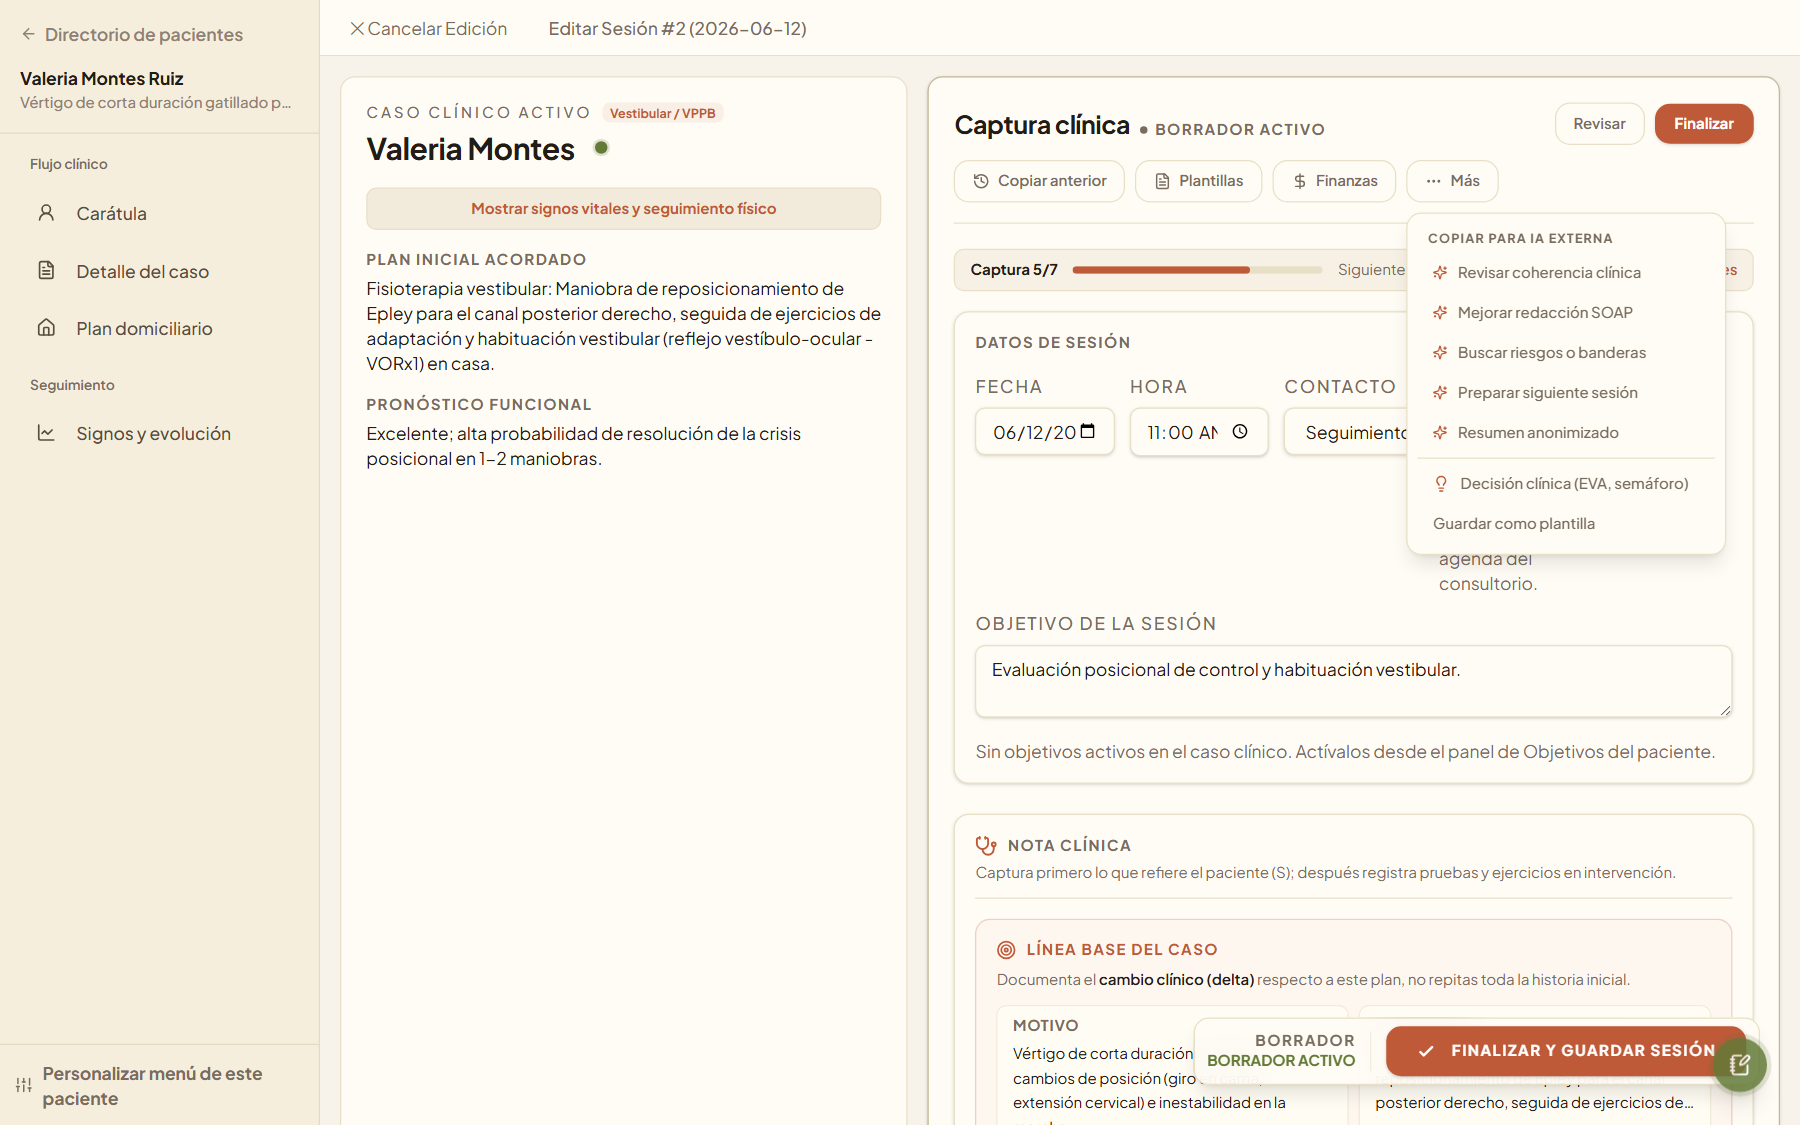
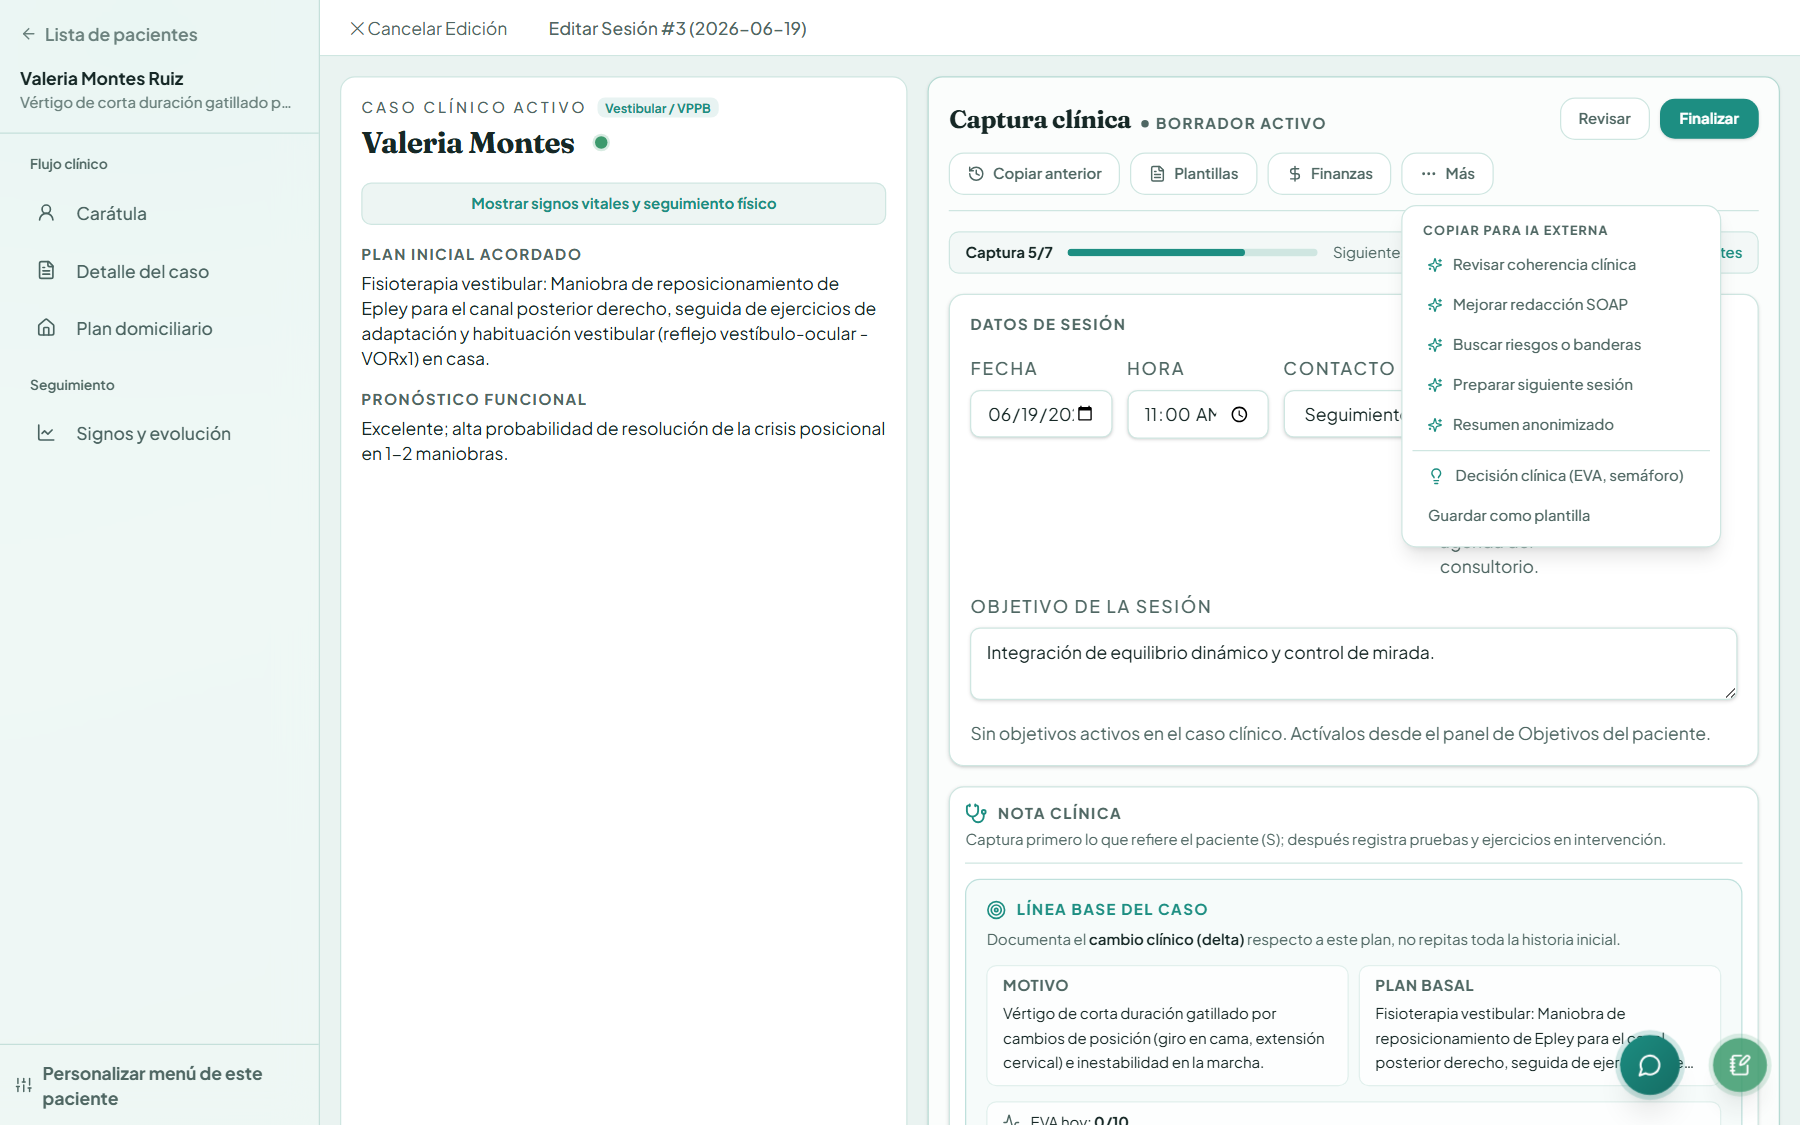
Alinear portafolio con el gestor: paleta teal, capturas y datos demo.
- CSS, favicon y OG en verde clínico (#1d8e82) como PoncePretelin
- Regenerar 11 capturas con UI actual (Valeria/Manuel, intake NOM-004)
- Unificar script de capturas; descubrir IDs por folio demo
- Actualizar roadmap, README y github_profile_readme (4 motores)

diff --git a/styles.css b/styles.css
@@ -1,16 +1,16 @@
 :root {
-  --bg: #f0ebe3;
-  --bg-dark: #3a454f;
-  --surface: #faf8f4;
-  --ink: #2c2a27;
-  --muted: #6b6560;
-  --line: rgba(44, 42, 39, 0.1);
-  --line-strong: rgba(44, 42, 39, 0.18);
-  --accent: #c45a32;
-  --accent-soft: #e8a07a;
-  --accent-tint: rgba(196, 90, 50, 0.08);
-  --slate: #4a5d6f;
-  --warm: #5c534c;
+  --bg: #eaf3f1;
+  --bg-dark: #162826;
+  --surface: #ffffff;
+  --ink: #162826;
+  --muted: #4f6763;
+  --line: rgba(22, 40, 38, 0.1);
+  --line-strong: rgba(22, 40, 38, 0.18);
+  --accent: #1d8e82;
+  --accent-soft: #3db8ab;
+  --accent-tint: rgba(29, 142, 130, 0.08);
+  --slate: #4a6360;
+  --warm: #6b817d;
   --serif: "Instrument Serif", Georgia, serif;
   --display: "Syne", system-ui, sans-serif;
   --mono: "JetBrains Mono", ui-monospace, monospace;
@@ -37,10 +37,10 @@ body {
   line-height: 1.6;
   color: var(--ink);
   background:
-    radial-gradient(ellipse 90% 70% at 0% 0%, rgba(196, 90, 50, 0.07), transparent 55%),
-    radial-gradient(ellipse 80% 60% at 100% 8%, rgba(74, 93, 111, 0.09), transparent 50%),
-    radial-gradient(ellipse 70% 55% at 50% 100%, rgba(232, 160, 122, 0.1), transparent 55%),
-    linear-gradient(180deg, #f3ede5 0%, var(--bg) 45%, #ebe4da 100%);
+    radial-gradient(ellipse 90% 70% at 0% 0%, rgba(29, 142, 130, 0.08), transparent 55%),
+    radial-gradient(ellipse 80% 60% at 100% 8%, rgba(74, 99, 96, 0.1), transparent 50%),
+    radial-gradient(ellipse 70% 55% at 50% 100%, rgba(29, 142, 130, 0.06), transparent 55%),
+    linear-gradient(180deg, #ffffff 0%, var(--bg) 38%, #edf5f3 100%);
   overflow-x: clip;
 }
 
@@ -88,9 +88,9 @@ button {
   display: grid;
   place-items: center;
   background:
-    radial-gradient(ellipse 90% 70% at 50% 35%, rgba(196, 90, 50, 0.14), transparent 58%),
-    radial-gradient(ellipse 60% 50% at 80% 80%, rgba(74, 93, 111, 0.2), transparent 55%),
-    #12161b;
+    radial-gradient(ellipse 90% 70% at 50% 35%, rgba(29, 142, 130, 0.16), transparent 58%),
+    radial-gradient(ellipse 60% 50% at 80% 80%, rgba(61, 184, 171, 0.12), transparent 55%),
+    #0e1615;
   color: #fff;
   transition:
     opacity 0.85s var(--ease),
@@ -163,7 +163,7 @@ button {
   height: 100%;
   width: 0;
   background: linear-gradient(90deg, var(--accent), var(--accent-soft));
-  box-shadow: 0 0 12px rgba(196, 90, 50, 0.45);
+  box-shadow: 0 0 12px rgba(29, 142, 130, 0.4);
   transition: width 0.15s linear;
 }
 
@@ -209,7 +209,7 @@ body.is-loaded .site-shell {
   height: 28rem;
   margin: -14rem 0 0 -14rem;
   border-radius: 50%;
-  background: radial-gradient(circle, rgba(196, 90, 50, 0.14), transparent 65%);
+  background: radial-gradient(circle, rgba(29, 142, 130, 0.14), transparent 65%);
   pointer-events: none;
   z-index: 150;
   opacity: 0;
@@ -771,7 +771,7 @@ body.is-loaded .hero-left .reveal:nth-child(2) {
 }
 
 .btn-fill:hover {
-  background: #a84a28;
+  background: #156d64;
 }
 
 .btn-outline {
@@ -1824,7 +1824,7 @@ body.is-loaded .hero-left .reveal:nth-child(2) {
 }
 
 .card-featured.is-active {
-  box-shadow: 0 28px 56px rgba(74, 93, 111, 0.22);
+  box-shadow: 0 28px 56px rgba(22, 40, 38, 0.18);
 }
 
 .card-featured p {

diff --git a/scripts/og-template.html b/scripts/og-template.html
@@ -13,8 +13,8 @@
         height: 630px;
         overflow: hidden;
         font-family: "Segoe UI", system-ui, sans-serif;
-        background: linear-gradient(135deg, #2c2a27 0%, #3a454f 52%, #2c2a27 100%);
-        color: #faf8f4;
+        background: linear-gradient(135deg, #162826 0%, #0e1615 52%, #162826 100%);
+        color: #ffffff;
       }
       .wrap {
         display: grid;
@@ -30,14 +30,14 @@
         object-fit: cover;
         object-position: center top;
         border-radius: 4px;
-        border: 1px solid rgba(250, 248, 244, 0.14);
+        border: 1px solid rgba(232, 245, 243, 0.14);
         box-shadow: 0 24px 64px rgba(0, 0, 0, 0.35);
       }
       .kicker {
         font-size: 18px;
         letter-spacing: 0.22em;
         text-transform: uppercase;
-        color: #e8a07a;
+        color: #3db8ab;
         margin-bottom: 18px;
       }
       .name {
@@ -50,27 +50,27 @@
       .role {
         font-size: 30px;
         line-height: 1.25;
-        color: #f0ebe3;
+        color: #e8f5f3;
         max-width: 620px;
       }
       .role em {
         font-style: normal;
-        color: #e8a07a;
+        color: #3db8ab;
       }
       .brand {
         margin-top: 36px;
         font-size: 22px;
         letter-spacing: 0.08em;
-        color: rgba(250, 248, 244, 0.72);
+        color: rgba(232, 245, 243, 0.72);
       }
       .brand strong {
-        color: #faf8f4;
+        color: #ffffff;
         font-weight: 700;
       }
       .line {
         width: 72px;
         height: 3px;
-        background: #c45a32;
+        background: #1d8e82;
         margin-bottom: 28px;
       }
     </style>

diff --git a/index.html b/index.html
@@ -711,7 +711,7 @@
                 <span class="roadmap-marker" aria-hidden="true">○</span>
                 <div>
                   <strong data-i18n="roadmap.r4Title">Documentación y despliegue</strong>
-                  <p data-i18n="roadmap.r4Desc">Guías de instalación más claras, más presets clínicos y capturas actualizadas del demo.</p>
+                  <p data-i18n="roadmap.r4Desc">Guías de instalación, más presets clínicos y despliegue estable en Render.</p>
                 </div>
               </li>
             </ul>

diff --git a/github_profile_readme.md b/github_profile_readme.md
@@ -12,11 +12,12 @@ Clinical manager for physical therapy (v1 in active development).
 
 | Engine | What it does |
 |--------|----------------|
-| **Clinical core** | Multi-specialty episodes, SOAP notes, scheduling, patient portal |
+| **Clinical core** | Dashboard, schedule, patients, episodes and clinic workflow |
 | **Safety & validation** | openFDA + RxNav integrations for device alerts and medication context |
-| **Terminology** | Referenced IASP / WHO ICF terms for prudent clinical language |
+| **Terminology** | IASP / WHO ICF clinical language corrector in notes and reports |
+| **AI support** | SOAP assistance, evidence atlas and imaging modules — support, not substitute |
 
-- [Live demo](https://poncepretelin-web.onrender.com) · `demo@poncepretelin.app` / `DemoCloud2026`
+- [Live demo](https://poncepretelin-web.onrender.com)
 - [Portfolio](https://ulisesponcepretelin.github.io/)
 - [Repository](https://github.com/UlisesPoncePretelin/Poncepretelin)
 

diff --git a/README.md b/README.md
@@ -13,6 +13,16 @@ Landing personal en GitHub Pages. Presenta **PoncePretelin** y el perfil profesi
 
 Guarda tu retrato en `assets/portrait.jpg` (recomendado 4:5, mín. 1280×1600 px).
 
+## Capturas del demo
+
+Regenerar desde la demo en vivo (Render) o local:
+
+```bash
+node scripts/capture-demo-screenshots.mjs
+# Local opcional:
+# DEMO_BASE_URL=http://localhost:3002 DEMO_EMAIL=admin@local.com DEMO_PASS=Admin12345! node scripts/capture-demo-screenshots.mjs
+```
+
 ## Despliegue
 
 Push a `main` → GitHub Pages publica automáticamente desde la raíz.
